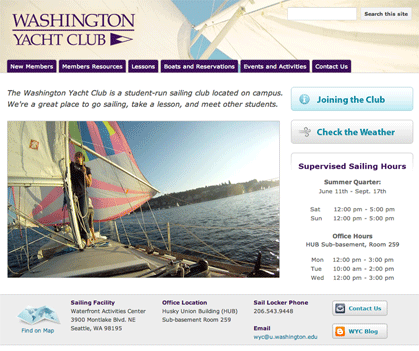
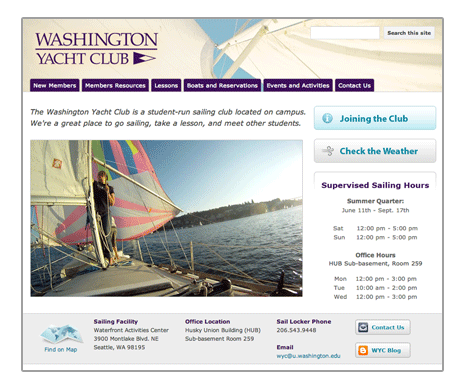
expanded header, fixed link, added mouseover images for wyc and hands thumbs

diff --git a/css/styles.css b/css/styles.css
@@ -28,6 +28,11 @@ a:hover {
     margin-left: 20px;
     max-height:37px;
 	}
+
+    #header li{
+        margin-left: 20px;
+        display: inline;
+    }
 	
 #picture {
 	float: right;

diff --git a/index.php b/index.php
@@ -18,7 +18,7 @@
         <!-- Begin Content -->
         <div id="statement">
             <div class="grid_12">
-                <p>Hi, I'm Dan Shank, a Masters student in the <a href="http://www.hcde.washington.edu/">HCDE Program</a> at the University of Washington.</p><br>
+                <p>Hi, I'm Dan Shank, a Masters student in the <a href="http://www.hcde.washington.edu/" target="_blank">HCDE Program</a> at the University of Washington.</p><br>
 
                 <h2>What is your background?</h2>
                 <p>

diff --git a/includes/project_wyc.php b/includes/project_wyc.php
@@ -3,7 +3,7 @@
     <div class="grid_4 center">
         <h3>Washington Yacht Club</h3>
             <a href="https://sites.google.com/site/wycprojectfinalprototype/" target="_blank">
-                <img src="images/wyc/wyc_new.png" width=275 style="border: 1px solid #A0A0A0;"/>
+                <img src="images/wyc_thumb.png" width=275 onmouseover="this.src='images/wyc_thumb_over.png'" onmouseout="this.src='images/wyc_thumb.png'"/>
             </a>
     </div>
 

diff --git a/includes/project_hands.php b/includes/project_hands.php
@@ -3,7 +3,7 @@
     <div class="grid_4 center">
         <h3>The Language of Hands</h3>
         <a href="http://students.washington.edu/dshank/Project_V3/Male.html" target="_blank">
-            <img src='images/hands_thumb.png' width=220>
+            <img src='images/hands_thumb.png' width=220 onmouseover="this.src='images/hands_thumb_over.png'" onmouseout="this.src='images/hands_thumb.png'">
         </a>
     </div>
 
